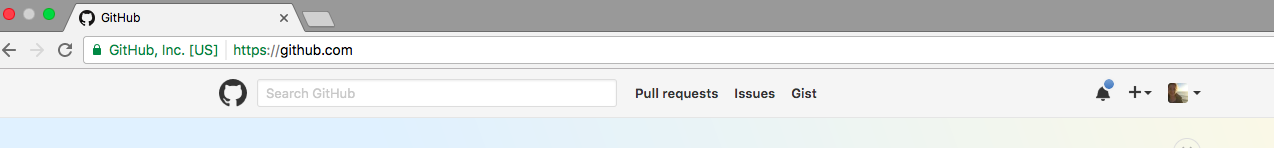
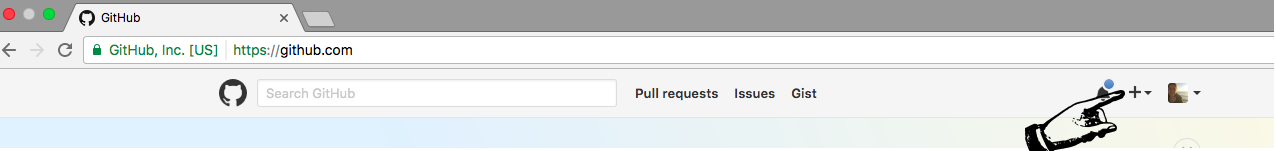
Small edits and added manicule to image

Changed region(s): [[0.7947, 0.5828, 0.8864, 1.0]]

diff --git a/sections/gitconfig.md b/sections/gitconfig.md
@@ -10,11 +10,11 @@ Let's make sure Git has been successfully installed. In your terminal, type
 
 	git --version
 
-If you see a version number, you're all set. If not, click here [here](http://git-scm.com/downloads) and install as you would any other software on your system.
+If you see a version number, you're all set. If not, click [here](http://git-scm.com/downloads) and install as you would any other software on your system.
 
 ## Configuring Git on Your Computer
 
-Type the following into your command line, filling in the sections for your username and email. This does not necessarily need to be the name and email you used to sign up for GitHub.
+Type the following into your command line, filling in the sections—below labelled "John Doe"—for your username and email. This does not necessarily need to be the name and email you used to sign up for GitHub.
 
 	git config --global user.name "John Doe"
 	git config --global user.email johndoe@example.com

diff --git a/sections/markdown.md b/sections/markdown.md
@@ -12,7 +12,7 @@ Now we're going to initialize our repository, which means telling Git to pay att
 
 You should see output like this:
 
-	Initialized empty Git repository in /home/patrick/projects/lalala/.git/
+	Initialized empty Git repository in /home/patrick/projects/git/.git/
 	
 Now Git is tracking our directory. But before that's useful, we'll have to create a text file for Git to track. For this session, the file we'll track will be a course syllabus—we'll create that next.
 
@@ -83,4 +83,3 @@ You'll get two side-by-side panels. Your markdown file will be on the left, and 
 Remember to save your work with `Control-s` on Windows or `Mac-s` on Mac OS.
 
 [<<< Previous](gitconfig.md) | [Next >>>](github.md)
-

diff --git a/sections/github.md b/sections/github.md
@@ -38,10 +38,15 @@ Next, paste the second command. It will look exactly like this:
 
 	git push -u origin master
 
-After running this command, you should see output that looks liek this:
+After running this command, you should see output that looks like this:
 
+```
+Total 4 (delta 3), reused 0 (delta 0)
+remote: Resolving deltas: 100% (3/3), completed with 3 local objects.
+To github.com:<repo-name>/git.git
+   916998f..9779fa7  master -> master
+```
 
-
-
+If you see output like this, go back to your new repository page in the browser and click the `Refresh` button. You should see your `syllabus.md` file on GitHub!
 
 [<<< Previous](markdown.md) | [Next >>>](gitaction.md)
